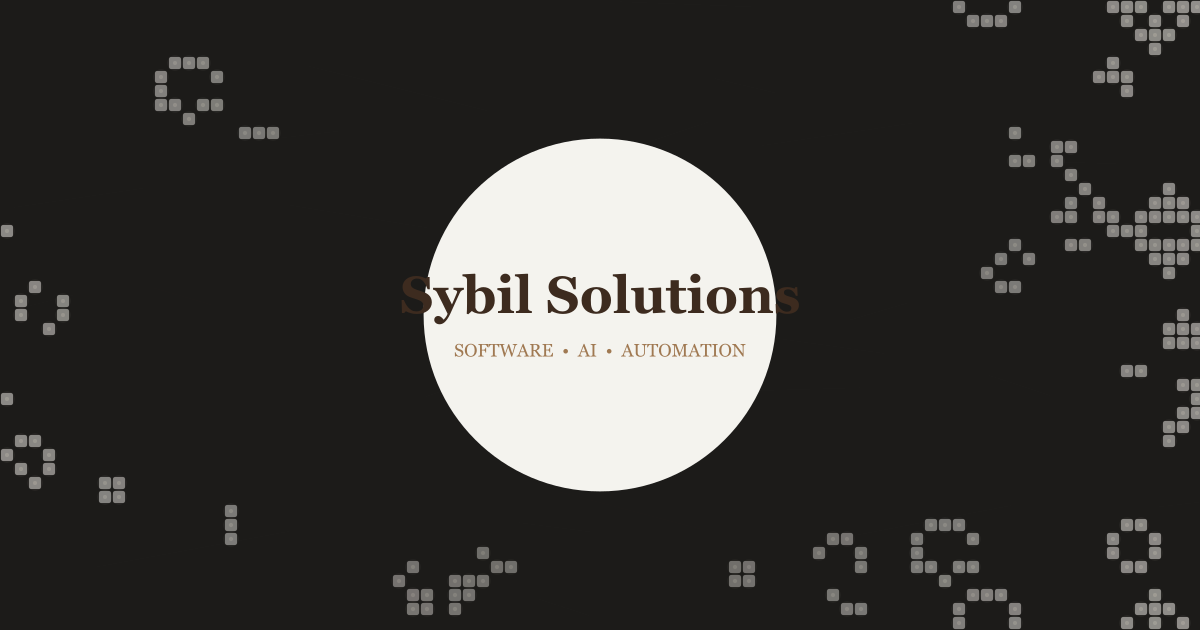
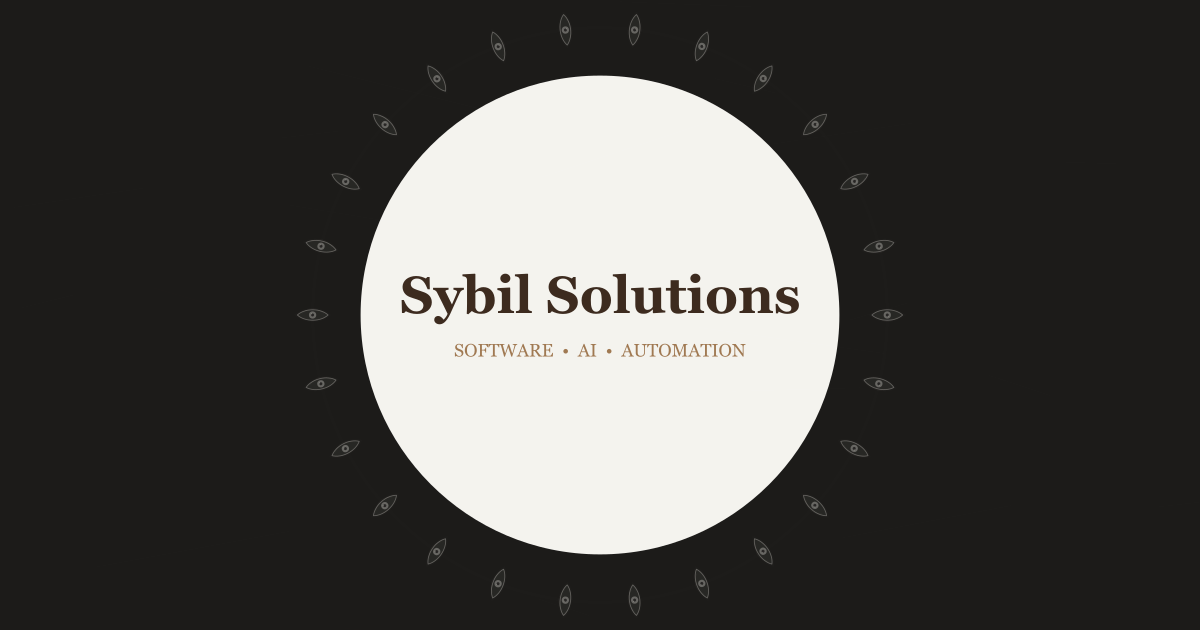
Switch OG image to Watching Eyes pattern
Replace Game of Life pattern with the portal-style Watching Eyes pattern
for the Open Graph social media preview image.

🤖 Generated with [Claude Code](https://claude.com/claude-code)

diff --git a/scripts/generate-og-image.js b/scripts/generate-og-image.js
@@ -1,5 +1,5 @@
 /**
- * Generate a static OG image with the portal animation aesthetic
+ * Generate a static OG image with the Watching Eyes pattern
  * Run with: node scripts/generate-og-image.js
  *
  * Requires: npm install canvas
@@ -12,18 +12,21 @@ const path = require('path')
 // OG Image dimensions (Twitter/Facebook recommended)
 const WIDTH = 1200
 const HEIGHT = 630
+const TAU = Math.PI * 2
 
 // Palette (matching the portal page)
 const palette = {
   base: 'hsl(30, 5%, 10.5%)',
-  baseDeep: 'hsl(30, 5%, 8%)',
+  baseDeep: 'hsl(30, 5%, 6%)',
   center: 'hsl(40, 30%, 96%)',
   ink: 'hsla(40, 20%, 92%, 0.75)',
   inkBright: 'hsla(40, 25%, 95%, 0.9)',
   inkSoft: 'hsla(35, 18%, 70%, 0.45)',
   inkFaint: 'hsla(35, 12%, 55%, 0.2)',
-  glow: 'hsla(40, 25%, 88%, 0.35)',
+  glow: 'hsla(40, 25%, 88%, 0.25)',
   highlight: 'hsla(45, 35%, 85%, 0.5)',
+  highlightBright: 'hsla(45, 40%, 92%, 0.7)',
+  highlightSubtle: 'hsla(40, 25%, 75%, 0.2)',
 }
 
 // Simple seeded random for reproducibility
@@ -33,84 +36,206 @@ function seededRandom() {
   return seed / 0x7fffffff
 }
 
-// Game of Life simulation
-class GameOfLife {
-  constructor(width, height, cellSize, clearRadius) {
+// Watching Eyes pattern
+class WatchingEyes {
+  constructor(width, height, clearRadius) {
     this.width = width
     this.height = height
-    this.cellSize = cellSize
     this.clearRadius = clearRadius
     this.centerX = width / 2
     this.centerY = height / 2
-    this.cols = Math.ceil(width / cellSize)
-    this.rows = Math.ceil(height / cellSize)
-    this.grid = []
-    this.nextGrid = []
-    this.initialize()
+    this.eyes = []
+    this.rings = []
+    this.build()
   }
 
-  initialize() {
-    for (let y = 0; y < this.rows; y++) {
-      this.grid[y] = new Array(this.cols).fill(0)
-      this.nextGrid[y] = new Array(this.cols).fill(0)
-    }
+  build() {
+    const cx = this.centerX
+    const cy = this.centerY
+    const edgePadding = 14
+    const maxDim = Math.min(this.width, this.height)
+    const maxRadius = maxDim / 2 - edgePadding
+    const minRadius = Math.max(this.clearRadius * 1.2, 30)
+    const ringCount = 8
+    const eyeScale = 1
+    const ringSpacing = 50
 
-    // Seed with sparse random cells
-    for (let y = 0; y < this.rows; y++) {
-      for (let x = 0; x < this.cols; x++) {
-        const cellCx = (x + 0.5) * this.cellSize
-        const cellCy = (y + 0.5) * this.cellSize
-        const distFromCenter = Math.sqrt(
-          (cellCx - this.centerX) ** 2 + (cellCy - this.centerY) ** 2
-        )
+    this.rings = []
+    this.eyes = []
 
-        if (distFromCenter < this.clearRadius * 1.4) continue
-        this.grid[y][x] = seededRandom() < 0.12 ? 1 : 0
+    for (let r = 0; r < ringCount; r++) {
+      const ringRadius = minRadius + r * ringSpacing
+      if (ringRadius > maxRadius) continue
+
+      const ringT = r / Math.max(ringCount - 1, 1)
+      const eyeSpacing = 70
+      const circumference = TAU * ringRadius
+      const rawCount = Math.max(4, Math.floor(circumference / eyeSpacing))
+      const eyeCount = Math.round(rawCount / 2) * 2
+      const baseSize = (14 + ringT * 10) * eyeScale
+
+      const ring = {
+        radius: ringRadius,
+        eyeCount,
+        baseSize,
+        ringIndex: r,
+        eyes: [],
       }
-    }
-  }
 
-  countNeighbors(x, y) {
-    let count = 0
-    for (let dy = -1; dy <= 1; dy++) {
-      for (let dx = -1; dx <= 1; dx++) {
-        if (dx === 0 && dy === 0) continue
-        const ny = (y + dy + this.rows) % this.rows
-        const nx = (x + dx + this.cols) % this.cols
-        count += this.grid[ny][nx]
-      }
-    }
-    return count
-  }
+      const ringOffset = (r % 2) * (Math.PI / eyeCount)
 
-  step() {
-    for (let y = 0; y < this.rows; y++) {
-      for (let x = 0; x < this.cols; x++) {
-        const cellCx = (x + 0.5) * this.cellSize
-        const cellCy = (y + 0.5) * this.cellSize
-        const distFromCenter = Math.sqrt(
-          (cellCx - this.centerX) ** 2 + (cellCy - this.centerY) ** 2
-        )
+      for (let e = 0; e < eyeCount; e++) {
+        const angle = (e / eyeCount) * TAU + ringOffset
+        const x = cx + Math.cos(angle) * ringRadius
+        const y = cy + Math.sin(angle) * ringRadius
+        const phase = (r * 0.13 + e * 0.07) % 1
 
-        if (distFromCenter < this.clearRadius * 1.4) {
-          this.nextGrid[y][x] = 0
-          continue
+        const eye = {
+          x,
+          y,
+          baseAngle: angle,
+          size: baseSize,
+          ringIndex: r,
+          eyeIndex: e,
+          phase,
+          ringT,
+          blinkPhase: (r * 0.17 + e * 0.11) % 1,
         }
 
-        const neighbors = this.countNeighbors(x, y)
-        const alive = this.grid[y][x] === 1
-
-        if (alive) {
-          this.nextGrid[y][x] = neighbors === 2 || neighbors === 3 ? 1 : 0
-        } else {
-          this.nextGrid[y][x] = neighbors === 3 ? 1 : 0
-        }
+        ring.eyes.push(eye)
+        this.eyes.push(eye)
       }
+
+      this.rings.push(ring)
+    }
+  }
+
+  drawEyeShape(ctx, width, height) {
+    ctx.beginPath()
+    ctx.moveTo(-width, 0)
+    ctx.bezierCurveTo(-width * 0.5, -height, width * 0.5, -height, width, 0)
+    ctx.bezierCurveTo(width * 0.5, height, -width * 0.5, height, -width, 0)
+    ctx.closePath()
+  }
+
+  drawEye(ctx, eye, globalAlpha) {
+    const { x, y, size, baseAngle, phase } = eye
+    const openness = 1 // All eyes open for static image
+    const watchAngle = baseAngle + Math.PI
+    const irisWander = Math.sin(phase * TAU) * 0.12
+
+    ctx.save()
+    ctx.translate(x, y)
+    ctx.rotate(watchAngle)
+
+    const eyeWidth = size * 1.1
+    const eyeHeight = size * 0.5 * openness
+    const strokeW = 0.6 + size * 0.018
+
+    // Outer glow
+    ctx.globalAlpha = globalAlpha * 0.06
+    ctx.fillStyle = palette.glow
+    this.drawEyeShape(ctx, eyeWidth * 1.2, eyeHeight * 1.3)
+    ctx.fill()
+
+    // Sclera
+    ctx.globalAlpha = globalAlpha * 0.12 * openness
+    ctx.fillStyle = palette.highlight
+    this.drawEyeShape(ctx, eyeWidth, eyeHeight)
+    ctx.fill()
+
+    // Eye outline
+    ctx.globalAlpha = globalAlpha * 0.5
+    ctx.strokeStyle = palette.ink
+    ctx.lineWidth = strokeW
+    this.drawEyeShape(ctx, eyeWidth, eyeHeight)
+    ctx.stroke()
+
+    // Upper lid crease
+    ctx.globalAlpha = globalAlpha * 0.18
+    ctx.strokeStyle = palette.inkSoft
+    ctx.lineWidth = strokeW * 0.5
+    ctx.beginPath()
+    ctx.moveTo(-eyeWidth * 0.7, -eyeHeight * 0.25)
+    ctx.bezierCurveTo(
+      -eyeWidth * 0.2,
+      -eyeHeight * 1.15,
+      eyeWidth * 0.2,
+      -eyeHeight * 1.15,
+      eyeWidth * 0.7,
+      -eyeHeight * 0.25
+    )
+    ctx.stroke()
+
+    // Iris position
+    const irisX = irisWander * size * 0.15
+    const irisY = 0
+    const irisRadius = size * 0.26 * openness
+
+    // Iris
+    ctx.globalAlpha = globalAlpha * 0.5
+    ctx.fillStyle = palette.ink
+    ctx.beginPath()
+    ctx.arc(irisX, irisY, irisRadius, 0, TAU)
+    ctx.fill()
+
+    // Iris ring detail
+    if (irisRadius > 3.5) {
+      ctx.globalAlpha = globalAlpha * 0.12
+      ctx.strokeStyle = palette.highlightSubtle
+      ctx.lineWidth = irisRadius * 0.08
+      ctx.beginPath()
+      ctx.arc(irisX, irisY, irisRadius * 0.72, 0, TAU)
+      ctx.stroke()
     }
 
-    const temp = this.grid
-    this.grid = this.nextGrid
-    this.nextGrid = temp
+    // Pupil
+    const pupilRadius = irisRadius * 0.42
+    ctx.globalAlpha = globalAlpha * 0.85
+    ctx.fillStyle = palette.baseDeep
+    ctx.beginPath()
+    ctx.arc(irisX, irisY, pupilRadius, 0, TAU)
+    ctx.fill()
+
+    // Primary reflection
+    ctx.globalAlpha = globalAlpha * 0.6
+    ctx.fillStyle = palette.highlightBright
+    ctx.beginPath()
+    ctx.arc(irisX - irisRadius * 0.28, irisY - irisRadius * 0.32, pupilRadius * 0.32, 0, TAU)
+    ctx.fill()
+
+    // Secondary reflection
+    ctx.globalAlpha = globalAlpha * 0.3
+    ctx.beginPath()
+    ctx.arc(irisX + irisRadius * 0.22, irisY + irisRadius * 0.18, pupilRadius * 0.12, 0, TAU)
+    ctx.fill()
+
+    ctx.restore()
+  }
+
+  render(ctx) {
+    ctx.save()
+    ctx.lineCap = 'round'
+    ctx.lineJoin = 'round'
+
+    // Ring arcs (subtle glow)
+    this.rings.forEach((ring) => {
+      ctx.globalAlpha = 0.03
+      ctx.strokeStyle = palette.glow
+      ctx.lineWidth = 3
+      ctx.beginPath()
+      ctx.arc(this.centerX, this.centerY, ring.radius, 0, TAU)
+      ctx.stroke()
+    })
+
+    // Draw eyes
+    this.rings.forEach((ring) => {
+      ring.eyes.forEach((eye) => {
+        this.drawEye(ctx, eye, 0.85)
+      })
+    })
+
+    ctx.restore()
   }
 }
 
@@ -140,69 +265,10 @@ function generateOGImage() {
   }
   ctx.restore()
 
-  // Create Game of Life pattern
-  const cellSize = 14
-  const clearRadius = Math.min(WIDTH, HEIGHT) * 0.28
-  const gol = new GameOfLife(WIDTH, HEIGHT, cellSize, clearRadius)
-
-  // Run a few generations to get interesting patterns
-  for (let i = 0; i < 8; i++) {
-    gol.step()
-  }
-
-  // Render cells
-  ctx.save()
-  const maxDist = Math.sqrt((WIDTH / 2) ** 2 + (HEIGHT / 2) ** 2)
-
-  for (let y = 0; y < gol.rows; y++) {
-    for (let x = 0; x < gol.cols; x++) {
-      if (gol.grid[y][x] !== 1) continue
-
-      const cellX = x * cellSize
-      const cellY = y * cellSize
-      const cellCx = cellX + cellSize / 2
-      const cellCy = cellY + cellSize / 2
-
-      const distFromCenter = Math.sqrt((cellCx - WIDTH / 2) ** 2 + (cellCy - HEIGHT / 2) ** 2)
-
-      if (distFromCenter < clearRadius * 1.4) continue
-
-      // Distance-based opacity (edge cells brighter)
-      const normalizedDist = distFromCenter / maxDist
-      const revealFactor = 0.5 + normalizedDist * 0.5
-
-      // Cell glow
-      ctx.globalAlpha = 0.2 * revealFactor
-      ctx.fillStyle = palette.glow
-      ctx.beginPath()
-      ctx.arc(cellCx, cellCy, cellSize * 0.55, 0, Math.PI * 2)
-      ctx.fill()
-
-      // Cell core
-      ctx.globalAlpha = 0.7 * revealFactor
-      ctx.fillStyle = palette.ink
-      const inset = 1
-      const radius = 2
-      ctx.beginPath()
-      roundRect(
-        ctx,
-        cellX + inset,
-        cellY + inset,
-        cellSize - inset * 2,
-        cellSize - inset * 2,
-        radius
-      )
-      ctx.fill()
-
-      // Bright center
-      ctx.globalAlpha = 0.4 * revealFactor
-      ctx.fillStyle = palette.highlight
-      ctx.beginPath()
-      ctx.arc(cellCx, cellCy, cellSize * 0.15, 0, Math.PI * 2)
-      ctx.fill()
-    }
-  }
-  ctx.restore()
+  // Create Watching Eyes pattern
+  const clearRadius = Math.min(WIDTH, HEIGHT) * 0.38
+  const eyes = new WatchingEyes(WIDTH, HEIGHT, clearRadius)
+  eyes.render(ctx)
 
   // Center disc
   ctx.save()
@@ -224,7 +290,6 @@ function generateOGImage() {
   // Tagline
   ctx.font = '18px Georgia, serif'
   ctx.fillStyle = 'rgba(139, 90, 43, 0.8)'
-  ctx.letterSpacing = '4px'
   ctx.fillText('SOFTWARE  \u2022  AI  \u2022  AUTOMATION', WIDTH / 2, HEIGHT / 2 + 35)
   ctx.restore()
 
@@ -233,19 +298,6 @@ function generateOGImage() {
   const buffer = canvas.toBuffer('image/png')
   fs.writeFileSync(outputPath, buffer)
   console.log(`OG image saved to: ${outputPath}`)
-}
-
-// Helper for rounded rectangles
-function roundRect(ctx, x, y, w, h, r) {
-  ctx.moveTo(x + r, y)
-  ctx.lineTo(x + w - r, y)
-  ctx.arcTo(x + w, y, x + w, y + r, r)
-  ctx.lineTo(x + w, y + h - r)
-  ctx.arcTo(x + w, y + h, x + w - r, y + h, r)
-  ctx.lineTo(x + r, y + h)
-  ctx.arcTo(x, y + h, x, y + h - r, r)
-  ctx.lineTo(x, y + r)
-  ctx.arcTo(x, y, x + r, y, r)
 }
 
 generateOGImage()
